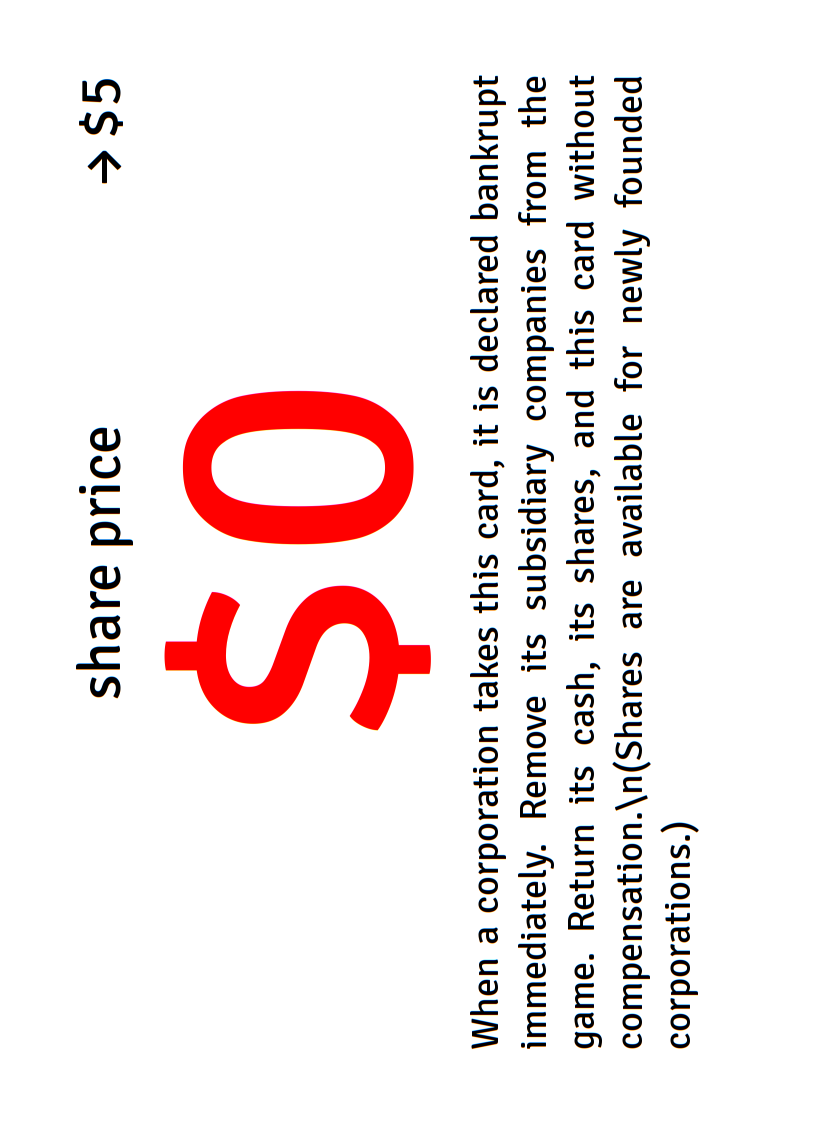
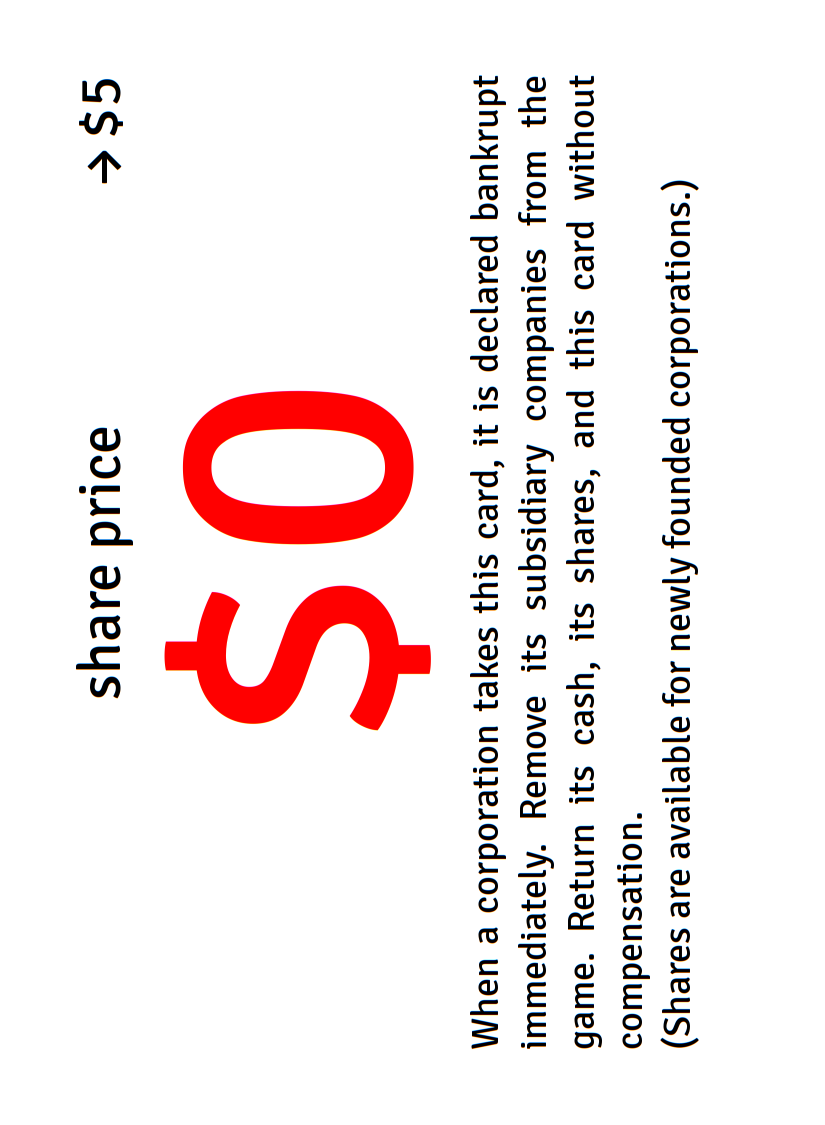
Fix literal \n in $0 share price card

Changed region(s): [[0.7273, 0.0622, 0.8485, 0.9333]]

diff --git a/rollingstock/deck_shareprice.rb b/rollingstock/deck_shareprice.rb
@@ -83,7 +83,7 @@ module Rollingstock
       bottom_y = 462
       text str: 'When a corporation takes this card, it is declared bankrupt immediately. '\
                 'Remove its subsidiary companies from the game. Return its cash, its shares, '\
-                'and this card without compensation.\n(Shares are available for newly founded corporations.)',
+                "and this card without compensation.\n(Shares are available for newly founded corporations.)",
            range: 0, y: bottom_y, layout: :bottomtext
       text str: 'If this card is in use in phase 10 or after a share has been bought in phase 3, '\
                 'the game ends immediately. In phase 9, assume there is an infinite supply of this '\
